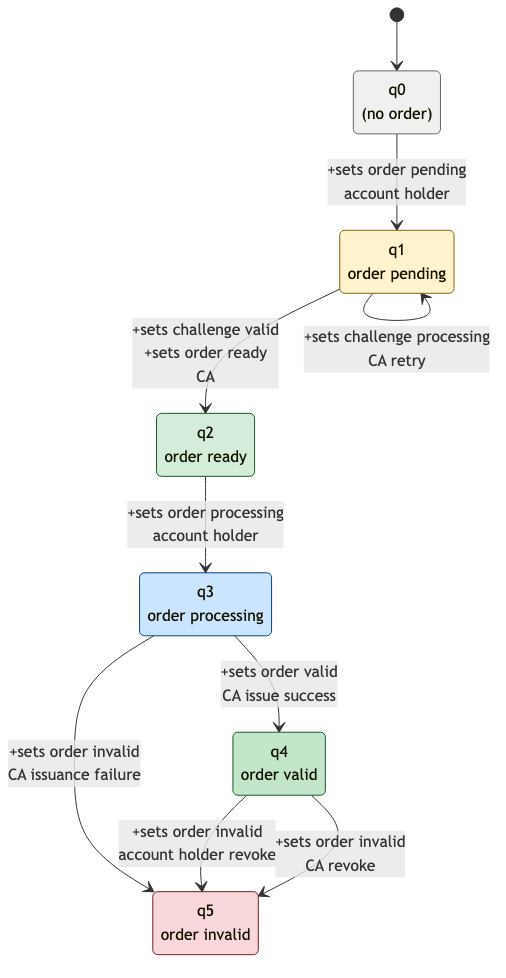
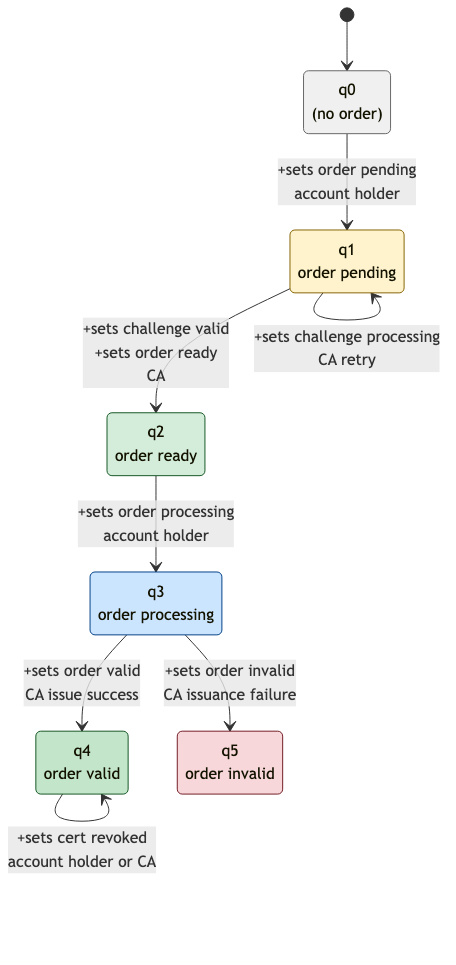
refactor: refine governance formulas in RFC 8555 ACME model to prohibit holder-signed invalid orders and update related tests

Changed region(s): [[0.0, 0.0, 0.9825, 0.9948]]

diff --git a/rust/modality-lang/tests/acme_rfc8555_corpus.rs b/rust/modality-lang/tests/acme_rfc8555_corpus.rs
@@ -190,8 +190,8 @@ fn acme_rfc8555_only_ca_marks_order_invalid() {
         .expect("rule present");
 
     assert!(
-        !checker.check_formula(rule).is_satisfied,
-        "account holder must not set order status to invalid"
+        !checker.check_formula_at_state(rule, "q3").is_satisfied,
+        "holder-signed invalid on the same step must be forbidden from processing"
     );
 }
 

diff --git a/experiments/ietf-autoformalization/rfc8555-acme/synthesis-notes.md b/experiments/ietf-autoformalization/rfc8555-acme/synthesis-notes.md
@@ -14,7 +14,7 @@ Nine obligations were adopted from [normative-core.md](./normative-core.md) and 
 | `issuance_requires_finalize` | §8 | `<+sets(/order/status.text, "valid")> true -> !<+sets(/order/status.text, "ready")>` |
 | `only_ca_issues_certificate` | §8 | `<+sets(..., "valid")> true -> <+signed_by(CA)>` |
 | `valid_excludes_invalid` | §7.1.6 | `<+sets(..., "valid")> true -> !<+sets(..., "invalid")>` |
-| `only_ca_marks_order_invalid` | §7.1.6 / §7.4 | `<+sets(..., "invalid")> true -> <+signed_by(CA)>` |
+| `only_ca_marks_order_invalid` | §7.1.6 / §7.4 | `<+sets(..., "invalid") +signed_by(holder)> true -> false` |
 | `authorization_requires_challenge` | §7.5 | `<+sets(..., "ready")> true -> !<+sets(/challenge/status.text, "pending")>` |
 | `revocation_blocks_use` | §7.6 / §7.1.6 | `(<+sets(..., "invalid")> \| <+sets(/certificate/revoked.text, "true")>) -> always([-sets(/certificate/in_use.text, "true")])` |
 | `only_holder_creates_order` | §7.1.4 | `<+sets(..., "pending")> true -> <+signed_by(holder)>` |
